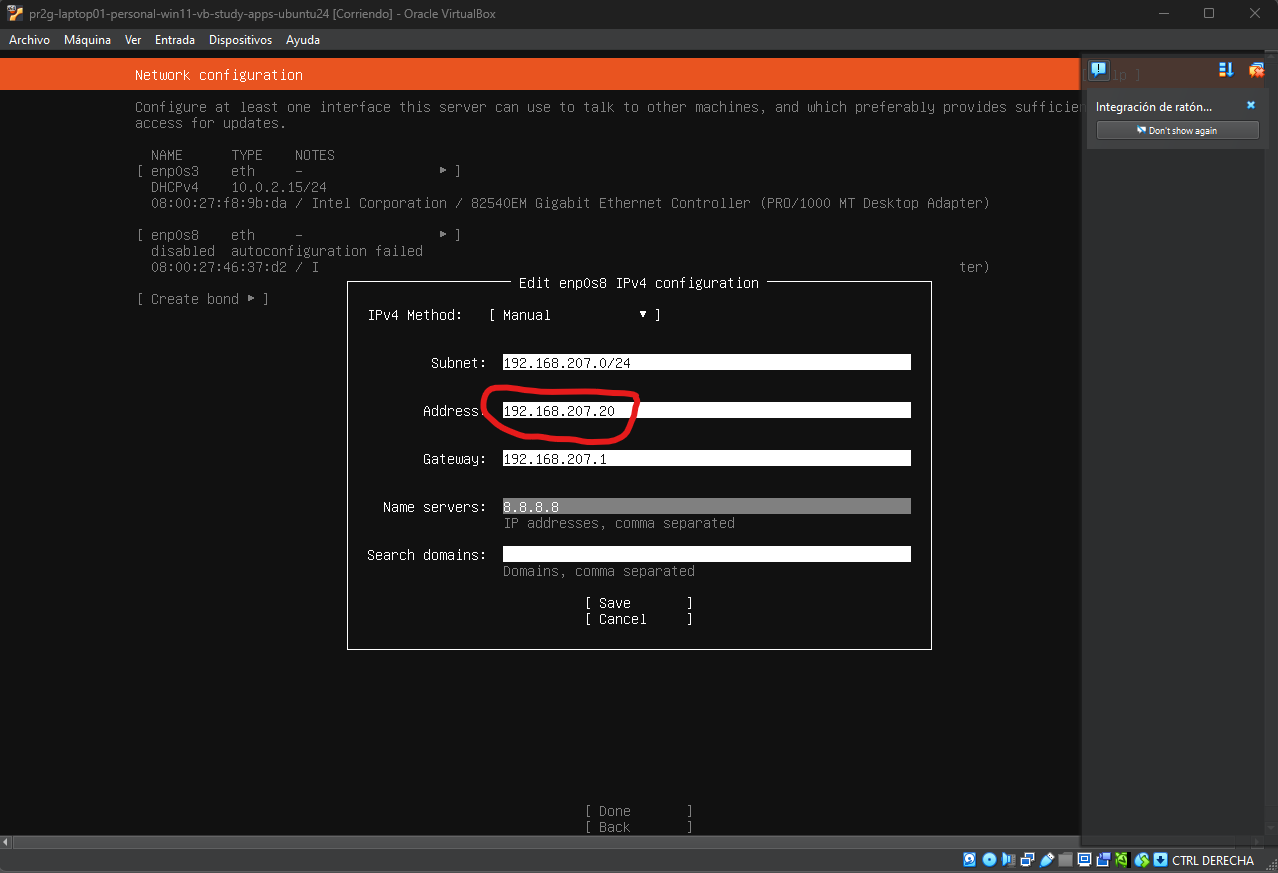
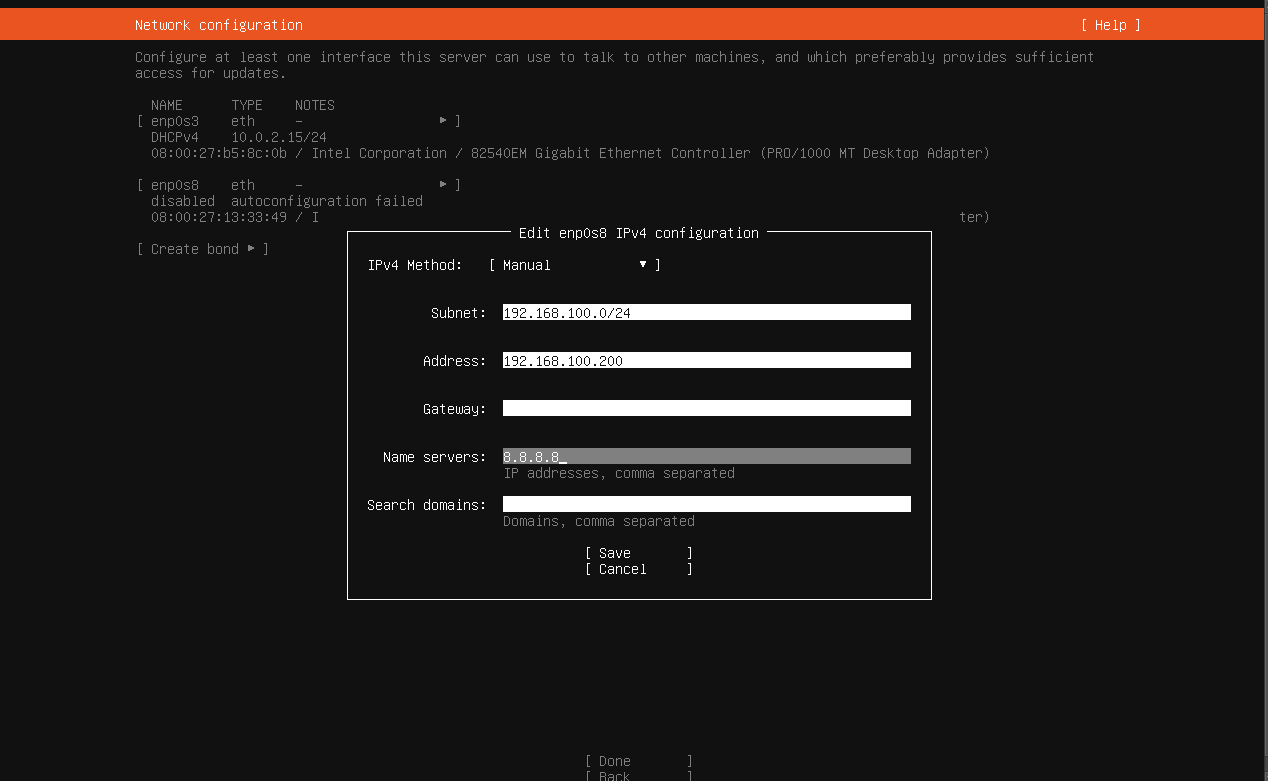
add unzip and zip

diff --git a/README.md b/README.md
@@ -69,20 +69,17 @@ personal, study, sandbox, w000, w001, w002, wxxx
     -   pr2g-laptop01-personal-win11-wsl-services-ubuntu24
 
 -   pr2g-laptop01-w001-win11 200
-    -   vbx [192.168.100.1]
-    -   [W001-APP] [192.168.100.101] pr2g-laptop01-w001-win11-vbx-apps-ubuntu24
-    -   pr2g-laptop01-w001-win11-vbx-services-ubuntu24
-    -   pr2g-laptop01-w001-win11-vbx-study-apps-ubuntu24
-    -   pr2g-laptop01-w001-win11-wsl-apps-ubuntu24
-    -   pr2g-laptop01-w001-win11-wsl-services-ubuntu24
-    -   pr2g-laptop01-w001-win11-vbx-study-apps-ubuntu24
 
-        ```sh
-        wsl -d pr2g-laptop01-w001-win11-wsl-study-apps-ubuntu24
-        ```
+    -   Create Ethernet Adapter vbx [192.168.100.1]
+    -   [W001-APPS] [192.168.100.101] pr2g-laptop01-w001-win11-vbx-apps-ubuntu24
+    -   [W001-SERVICES] [192.168.100.102] pr2g-laptop01-w001-win11-vbx-services-ubuntu24
+    -   [W001-STUDY] [192.168.100.20] pr2g-laptop01-w001-win11-vbx-study-apps-ubuntu24
+    -   [W001-SERVICES] [192.168.100.21] pr2g-laptop01-w001-win11-vbx-study-services-ubuntu24
+    -   [W001-SNAPSHOT] [192.168.100.200] pr2g-laptop01-w001-win11-vbx-snapshot-ubuntu24
 
-    -   pr2g-laptop01-w001-win11-wsl-study-services-ubuntu24
-    -   pr2g-laptop01-w001-win11-wsl-sandbox-ubuntu24
+    ```sh
+    wsl -d pr2g-laptop01-w001-win11-wsl-study-apps-ubuntu24
+    ```
 
 -   p2rg-laptop01-study-win11 200 (disk01)
 
@@ -107,6 +104,11 @@ personal, study, sandbox, w000, w001, w002, wxxx
     -   pr2g-laptop01-personal-fedora-vgt-study-apps-ubuntu24
     -   pr2g-laptop01-personal-fedora-vgt-study-services-ubuntu24
 
+
+## Instalacion
+
+Para continuar con el proceso, consulta las instrucciones en el archivo [INSTALL.md](./INSTALL.md).
+
 ```sh
 git config user.email paul.gualambo@gmail.com
 git config user.name 'Paul Romualdo Gualambo Giraldo'
@@ -127,30 +129,20 @@ ssh-keygen -t ed25519 -C "[paulgualambo.w001]@[w001.domain] - w001 - [name - w00
 ssh-keygen -t ed25519 -C "[paulgualambo.wxxx]@[wxxx-domain] - wxxx - [name - wxxx]" -f 'c:/Users/paul/.ssh/pr2g-[nodo]-wxxx-id-key_ed25519'
 ```
 
-```sh
-#Convertir todos los archivos a formato Unix
-sudo apt install dos2unix
-for file in *; do
-    if [ -f "$file" ]; then
-        dos2unix "$file"
-    fi
-done
-find . -type f -exec dos2unix {} \;
-```
 
 - Levantar una maquina virtual
+
+    ```sh
+    # clean
+    REMOTE_IP="192.168.100.101"
+    ssh-keygen -R "$REMOTE_IP"
+    ```
     - Ingresar por ssh
     ```sh
-         #!/bin/bash
-        # Guarda el argumento en una variable para mayor claridad
-        HOST_A_ELIMINAR=$1
+		mkdir ~/workspace ~/workspace/apps
+		cd ~/workspace
 
-        echo "🔑 Eliminando la clave SSH para el anfitrión: $HOST_A_ELIMINAR..."
-
-        # Ejecuta el comando para remover la clave del known_hosts
-        ssh-keygen -R "$HOST_A_ELIMINAR"
-
-        echo "✅ ¡Listo! La clave ha sido eliminada. Ya puedes conectarte de nuevo."
+        bash <(curl -s "https://raw.githubusercontent.com/paulgualambo/ms-vms-config/refs/heads/main/scripts/install.sh?$RANDOM") '{"hostname":"pr2g-laptop01-w001-win11-vbx-apps-ubuntu24", "distro":"DEBIAN", "username":"paul", "email":"paul.gualambo@gmail.com", "password":"123456"}'
     ```
 
     ```sh
@@ -160,7 +152,7 @@ find . -type f -exec dos2unix {} \;
     # --- Configuración ---
     # Define el usuario y la dirección IP aquí
     REMOTE_USER="paul"
-    REMOTE_IP="192.168.207.20"
+    REMOTE_IP="192.168.100.101"
 
     # --- Conexión y Copia ---
     # Define la dirección de destino para mayor claridad
@@ -179,13 +171,13 @@ find . -type f -exec dos2unix {} \;
 
     echo "✅ ¡Proceso completado!"
     ssh-keygen -R "$REMOTE_IP"
-    ssh-copy-id -i -f ~/.ssh/${REMOTE_USER}-me-id-key_ed25519.pub ${REMOTE_TARGET}
+    ssh-copy-id -i ~/.ssh/${REMOTE_USER}-me-id-key_ed25519.pub ${REMOTE_TARGET}
     ssh "${REMOTE_TARGET}" "chmod 700 ~/.ssh && chmod 600 ~/.ssh/*"
     ```
     - No olvidar ajustar en el archivo de host anfitrión
 
     ```sh
-        # ~/.ssh/config
+        # code ~/.ssh/config
         Host 192.168.207.10
         HostName 192.168.207.10
         User paul
@@ -197,21 +189,5 @@ find . -type f -exec dos2unix {} \;
     -	Junto con:
 	    -	Usuario user
 		-   Software base
-	-   creacion de workspace
-        ```sh
-		mkdir ~/workspace ~/workspace/apps
-		cd ~/workspace && git clone git@github.com:paulgualambo/ms-vms-config.git
-
-        bash <(curl -s "https://raw.githubusercontent.com/paulgualambo/ms-vms-config/refs/heads/main/scripts/install.sh?$RANDOM") '{"hostname":"pr2g-laptop01-w001-win11-vbx-apps-ubuntu24", "distro":"DEBIAN", "username":"paul", "email":"paul.gualambo@gmail.com", "password":"123456"}'
-        ```
 
 - En el terminal de host
-
-
-
-En el mismo repositorio
-
-```sh
-#!/bin/bash
-#bash <(curl -s "https://raw.githubusercontent.com/paulgualambo/ms-vms-config/refs/heads/main/scripts/install.sh?$RANDOM") '{"hostname":"pr2g-laptop01-w001-win11-wsl-sandbox", "distro":"DEBIAN", "username":"paul", "email":"paul.gualambo@gmail.com", "password":"123456"}'
-```

diff --git a/INSTALL.md b/INSTALL.md
@@ -1,0 +1,35 @@
+# VIRTUAL BOX,  VIRTUAL MACHINE
+
+Este tutorial esta destinado para crear un VM desde un ISO de un sistema operativo LINUX
+
+1. Descargar el ISO
+2. Configurar la maquina virual en LINUX
+  Nombre
+  El ISO
+  La RED
+    Redes solo anfitrion, aca se configura el apigateway
+    Redes NAT, para tener acceso a internet
+  Al ingresar nuevamente a la maquina, se debe configurar el IP en base al apigateway
+
+01
+![alt text](resources/install_parte01.png)
+
+02
+![alt text](resources/install_parte02.png)
+
+03
+![alt text](resources/install_parte03.png)
+
+04
+![alt text](resources/install_parte04.png)
+
+05
+![alt text](resources/install_parte05.png)
+
+06
+![alt text](resources/install_parte06.png)
+
+07
+![alt text](resources/install_parte07.png)
+
+
